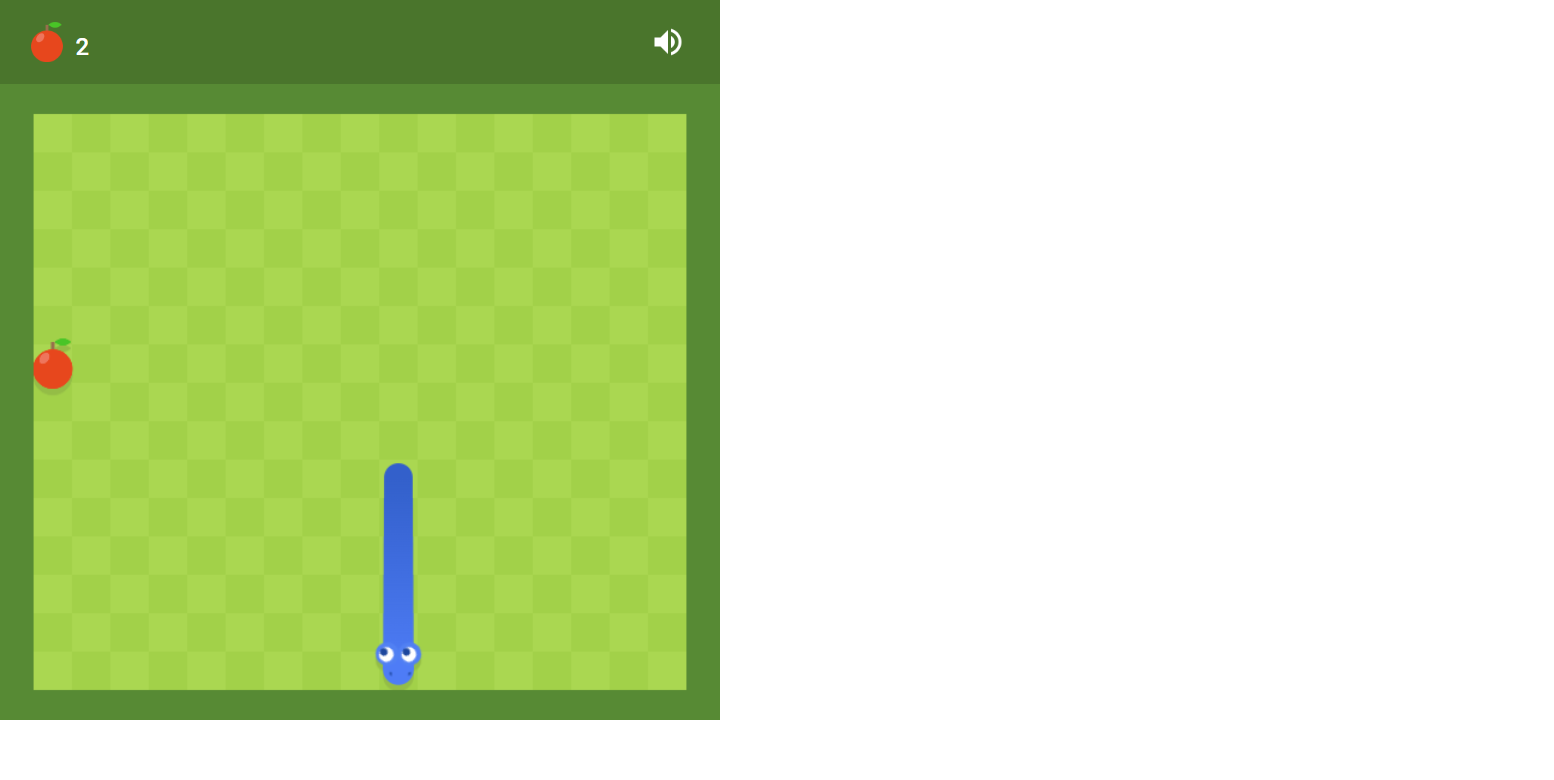
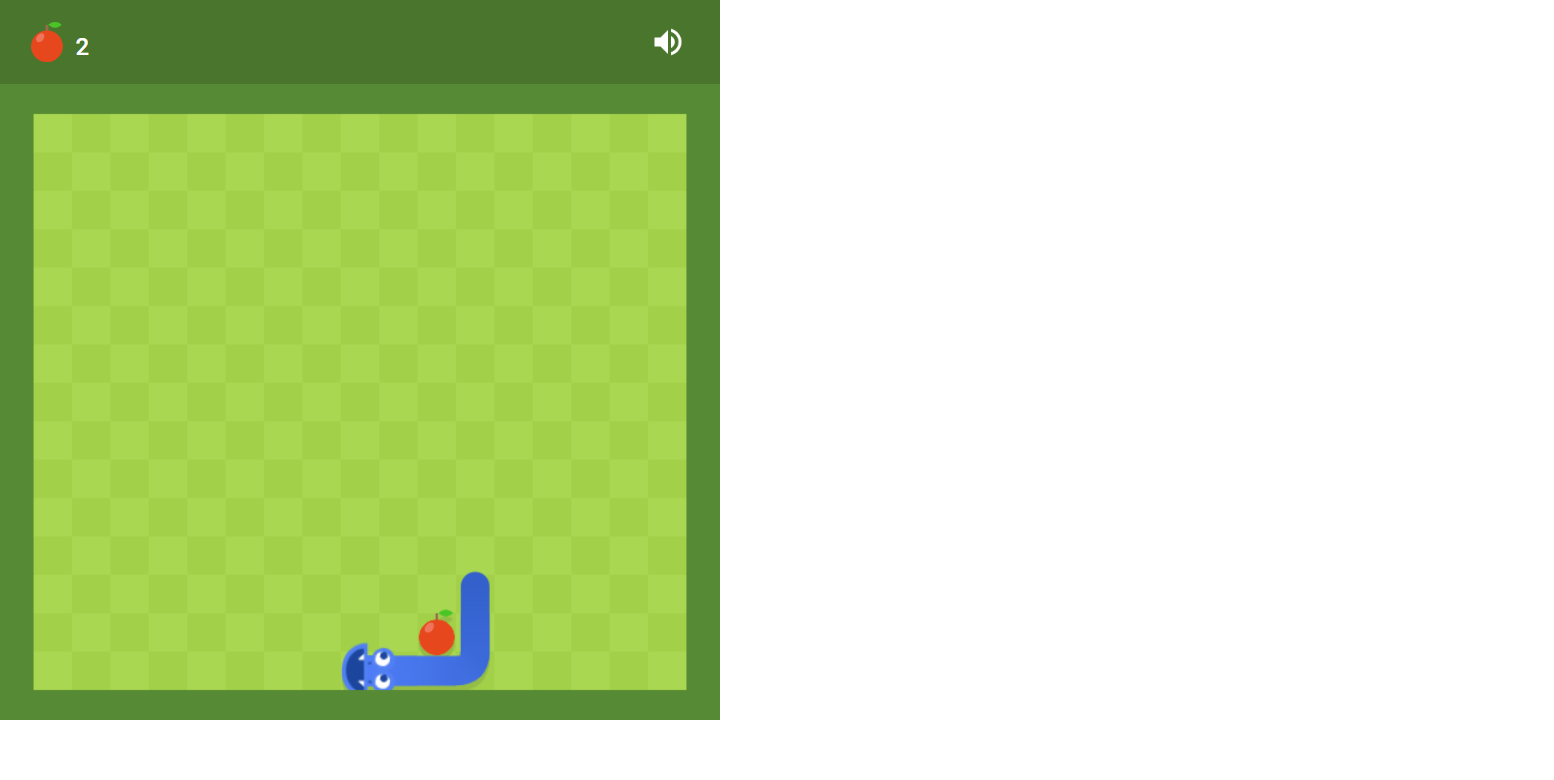
modif

Changed region(s): [[0.2162, 0.5846, 0.3398, 0.8923], [0.0, 0.4308, 0.0618, 0.4923]]

diff --git a/function.py b/function.py
@@ -3,120 +3,63 @@ from PIL import Image, ImageOps
 import numpy as np
 
 
-
 def find_path(matrix, start, end):
-    if end==None:
+    if end == None:
         return None
-    moves=[]
+    
     # Créer une file vide et ajouter le point de départ
-    q = Queue()
-    q.put(start)
-
+    q = [start]
+    
     # Créer un dictionnaire pour enregistrer le chemin parcouru
     path = {start: None}
-
-    while not q.empty():
-        current = q.get()
-
+    
+    while q:
+        current = q.pop(0)
+        
         # Si on a atteint le point final, construire la liste de mouvements
         if current == end:
             moves = []
             while current != start:
                 parent = path[current]
-                if parent[0] < current[0]:
-                    moves.append('bas')
-                elif parent[0] > current[0]:
+                diff = tuple(a - b for a, b in zip(current, parent))
+                if diff == (-1, 0):
                     moves.append('haut')
-                elif parent[1] < current[1]:
-                    moves.append('droite')
-                elif parent[1] > current[1]:
+                elif diff == (1, 0):
+                    moves.append('bas')
+                elif diff == (0, -1):
                     moves.append('gauche')
+                elif diff == (0, 1):
+                    moves.append('droite')
                 current = parent
             return moves[::-1]
-
+        
         # Visiter les voisins du point actuel
-        for neighbor in get_neighbors(matrix, current,end):
+        for neighbor in get_neighbors(matrix, current, end):
             if neighbor not in path:
-                q.put(neighbor)
+                q.append(neighbor)
                 path[neighbor] = current
+    
+    # Si aucun chemin n'a été trouvé
+    return None
+
+
 
 def get_neighbors(matrix, point, end):
     # Récupérer les coordonnées des voisins valides
     neighbors = []
     rows, cols = matrix.shape
     row, col = point
-    if (row - 1 >= 0) and (matrix[row - 1, col] != 1):
+    if (row - 1 >= 0) and (col<cols) and (matrix[row - 1, col] != 1):
         neighbors.append((row - 1, col))
-    if (row + 1 < rows) and (matrix[row + 1, col] != 1):
+    if (row + 1 < rows) and (col<cols) and (matrix[row + 1, col] != 1):
         neighbors.append((row + 1, col))
-    if (col - 1 >= 0) and (matrix[row, col - 1] != 1):
+    if (col - 1 >= 0) and (row<rows) and (matrix[row, col - 1] != 1):
         neighbors.append((row, col - 1))
-    if (col + 1 < cols) and (matrix[row, col + 1] != 1):
+    if (col + 1 < cols) and (row<rows) and (matrix[row, col + 1] != 1):
         neighbors.append((row, col + 1))
-
-    # Ajouter la case adjacente au mur si c'est la seule option pour atteindre la pomme
-    if (end in neighbors) and (len(neighbors) == 1):
-        wall_neighbors = []
-        if (row - 1 >= 0) and (matrix[row - 1, col] == 1):
-            wall_neighbors.append((row - 1, col))
-        if (row + 1 < rows) and (matrix[row + 1, col] == 1):
-            wall_neighbors.append((row + 1, col))
-        if (col - 1 >= 0) and (matrix[row, col - 1] == 1):
-            wall_neighbors.append((row, col - 1))
-        if (col + 1 < cols) and (matrix[row, col + 1] == 1):
-            wall_neighbors.append((row, col + 1))
-        neighbors.extend(wall_neighbors)
 
     return neighbors
 
 
-def find_shortest_path(image_path):
-    # Ouvrir l'image en niveau de gris et inverser les couleurs
-    image = ImageOps.invert(Image.open(image_path).convert('L'))
-    # Convertir l'image en un tableau numpy
-    matrix = np.array(image)
-    # Ajouter une bordure de murs autour de la matrice
-    surrounded = surround_matrix(matrix)
-    # Trouver les points de départ et d'arrivée
-    start = np.argwhere(matrix == 0)[0]
-    end = np.argwhere(matrix == 255)[-1]
-    # Trouver le chemin le plus court
-    path = find_path(surrounded, tuple(start + 1), tuple(end + 1))
-    
-    # Si le chemin est nul, il y a une erreur, renvoyer une liste vide
-    if path is None:
-        return []
-    
-    # Si la longueur du chemin est inférieure à 2, retourner le chemin tel quel
-    if len(path) < 2:
-        return path
-    
-    # Vérifier si le serpent se dirige vers le mur
-    if path[0] == 'bas' and matrix[start[0]+1][start[1]] == 1:
-        # Si le serpent va vers le bas et rencontre un mur, essayer de tourner à gauche ou à droite
-        if matrix[start[0]][start[1]-1] != 1:
-            return ['gauche'] + path
-        elif matrix[start[0]][start[1]+1] != 1:
-            return ['droite'] + path
-    elif path[0] == 'haut' and matrix[start[0]-1][start[1]] == 1:
-        # Si le serpent va vers le haut et rencontre un mur, essayer de tourner à gauche ou à droite
-        if matrix[start[0]][start[1]-1] != 1:
-            return ['gauche'] + path
-        elif matrix[start[0]][start[1]+1] != 1:
-            return ['droite'] + path
-    elif path[0] == 'droite' and matrix[start[0]][start[1]+1] == 1:
-        # Si le serpent va vers la droite et rencontre un mur, essayer de tourner en haut ou en bas
-        if matrix[start[0]-1][start[1]] != 1:
-            return ['haut'] + path
-        elif matrix[start[0]+1][start[1]] != 1:
-            return ['bas'] + path
-    elif path[0] == 'gauche' and matrix[start[0]][start[1]-1] == 1:
-        # Si le serpent va vers la gauche et rencontre un mur, essayer de tourner en haut ou en bas
-        if matrix[start[0]-1][start[1]] != 1:
-            return ['haut'] + path
-        elif matrix[start[0]+1][start[1]] != 1:
-            return ['bas'] + path
-    
-    # Sinon, retourner le chemin tel quel
-    return path
+
 

diff --git a/thefrenchsnake.py b/thefrenchsnake.py
@@ -18,8 +18,10 @@ from selenium.webdriver.support.ui import WebDriverWait
 from selenium.webdriver.support import expected_conditions as EC
 
 def snake():
+    j=4
     liste_avt=[]
     liste_avt2=[]
+    historique=[[0,0]]
 
     dict = {"haut":Keys.UP,"bas":Keys.DOWN,"gauche":Keys.LEFT,"droite":Keys.RIGHT}
     # Créer une instance du navigateur Chrome
@@ -105,12 +107,15 @@ def snake():
             pos_pomme=(round(15*moyenne_rouge[0]/569),round(17*moyenne_rouge[1]/614)+1)
             print("Pixel rouge trouvé à la position",pos_pomme)
 
-        
+        if len(historique)>j:
+            historique.pop(0)
+        if abs(pos_tete[0]-pos_pomme[0])<2 and abs(pos_tete[1]-pos_pomme[1])<2 : j+=1
         tableau = np.zeros((15, 17))
-    
-
+        historique.append(pos_tete)
+        for m in historique:
+            tableau[m[0]-1,m[1]-1]=1
         liste = find_path(tableau,pos_tete,pos_pomme)
-        #print(liste)
+        #print(tableau)
         #liste = list(set(liste))
         lit.append((i,pos_tete,pos_pomme,liste))
         #print(lit)
